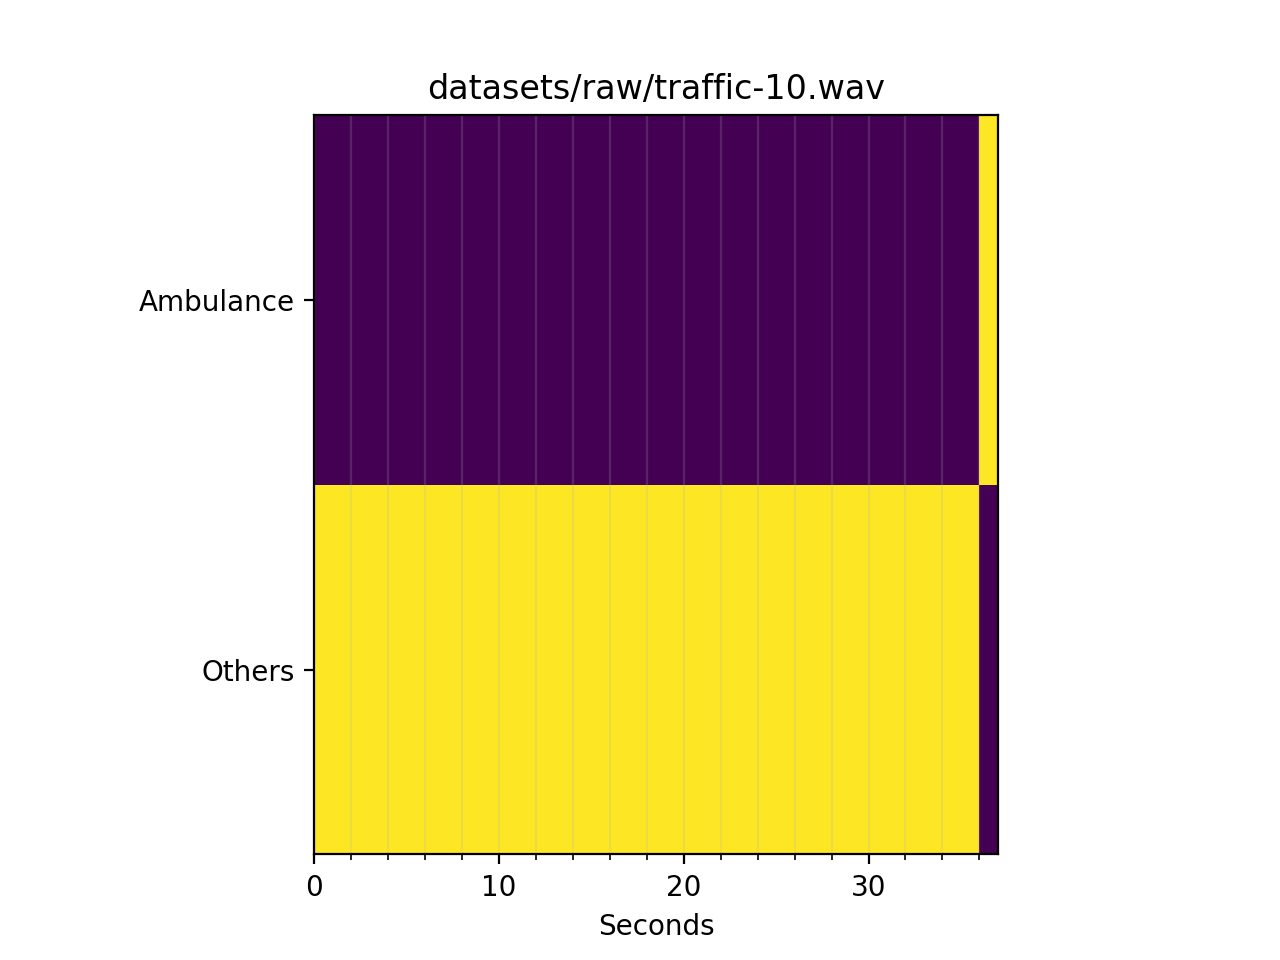
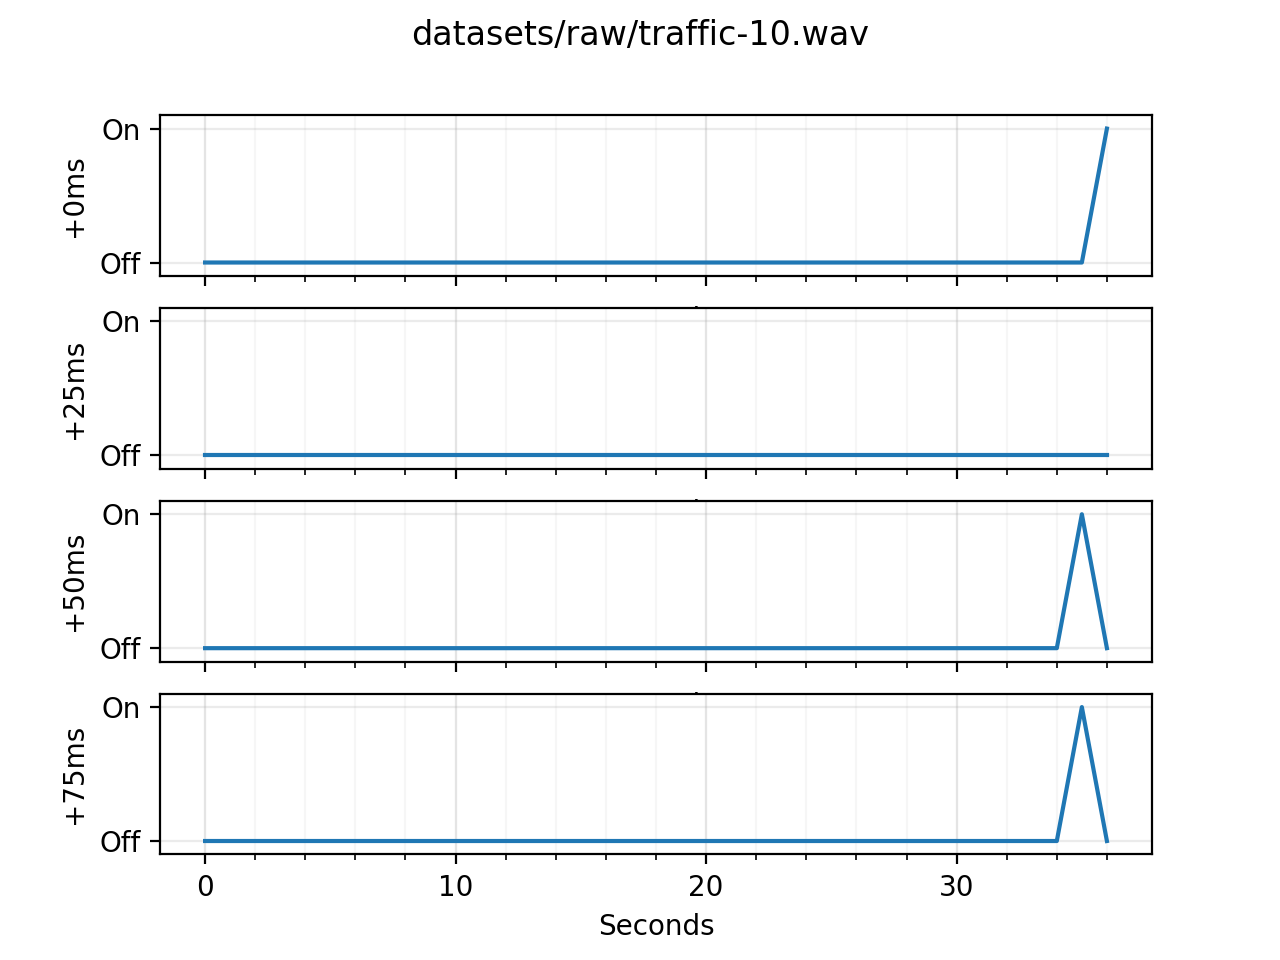
Change visualization, slide over 25ms

diff --git a/viz-audio.py b/viz-audio.py
@@ -27,8 +27,8 @@ if __name__ == '__main__':
         filename, _ = path.splitext(path.basename(file))
         rate, sample = wavfile.read(file)
 
-        detection = np.zeros((sample.size//rate+1, 2))
-        for sec_idx, start in enumerate(range(0, sample.size, rate)):
+        detection = np.zeros((4, sample.size//rate+1))
+        for sec_idx, start in enumerate(range(0, sample.size, rate//4)):
             chunk = np.zeros(rate)
             chunk[0:min(sample.size-start, rate)] = sample[start:min(sample.size, start+rate)]
 
@@ -41,22 +41,30 @@ if __name__ == '__main__':
             else:
                 X = np.reshape(power_spectrogram, (1, -1))
 
-            detection[sec_idx] = classifier.predict_proba(X)
+            detection[sec_idx%4, sec_idx//4] = classifier.predict(X)
 
         # Plot!
         fig = plt.figure()
-        ax = fig.add_subplot(1, 1, 1, aspect=20)
-        ax.set_title(file)
-        major_ticks = np.arange(0, detection.shape[0], 10)
-        minor_ticks = np.arange(0, detection.shape[0], 2)
-        ax.set_xticks(major_ticks)
-        ax.set_xticks(minor_ticks, minor=True)
-        ax.grid(which='both')
-        ax.grid(which='minor', alpha=0.2)
-        ax.grid(which='major', alpha=0.5)
-        ax.set_xlabel('Seconds')
-        plt.yticks([0.5, 1.5], ['Others', 'Ambulance'])
-        ax.pcolor(detection.T)
+        plt.suptitle(file)
+        major_ticks = np.arange(0, detection.shape[1], 10)
+        minor_ticks = np.arange(0, detection.shape[1], 2)
+
+        for i in range(4):
+            ax = fig.add_subplot(4, 1, i+1)
+            ax.set_xticks(major_ticks)
+            ax.set_xticks(minor_ticks, minor=True)
+            ax.set_yticks([0, 1])
+            ax.grid(which='both')
+            ax.grid(which='minor', alpha=0.1)
+            ax.grid(which='major', alpha=0.25)
+            ax.set_xlabel('Seconds')
+            ax.set_ylabel('+{}ms'.format(i*25))
+            ax.yaxis.set_ticklabels(['Off', 'On'])
+            if i%4 != 3:
+                ax.xaxis.set_ticklabels([])
+            ax.set_ylim([-0.1, 1.1])
+            ax.plot(detection[i])
+
         if args.save:
             fig.savefig('{}_plot.png'.format(filename), dpi=200)
             plt.close()
